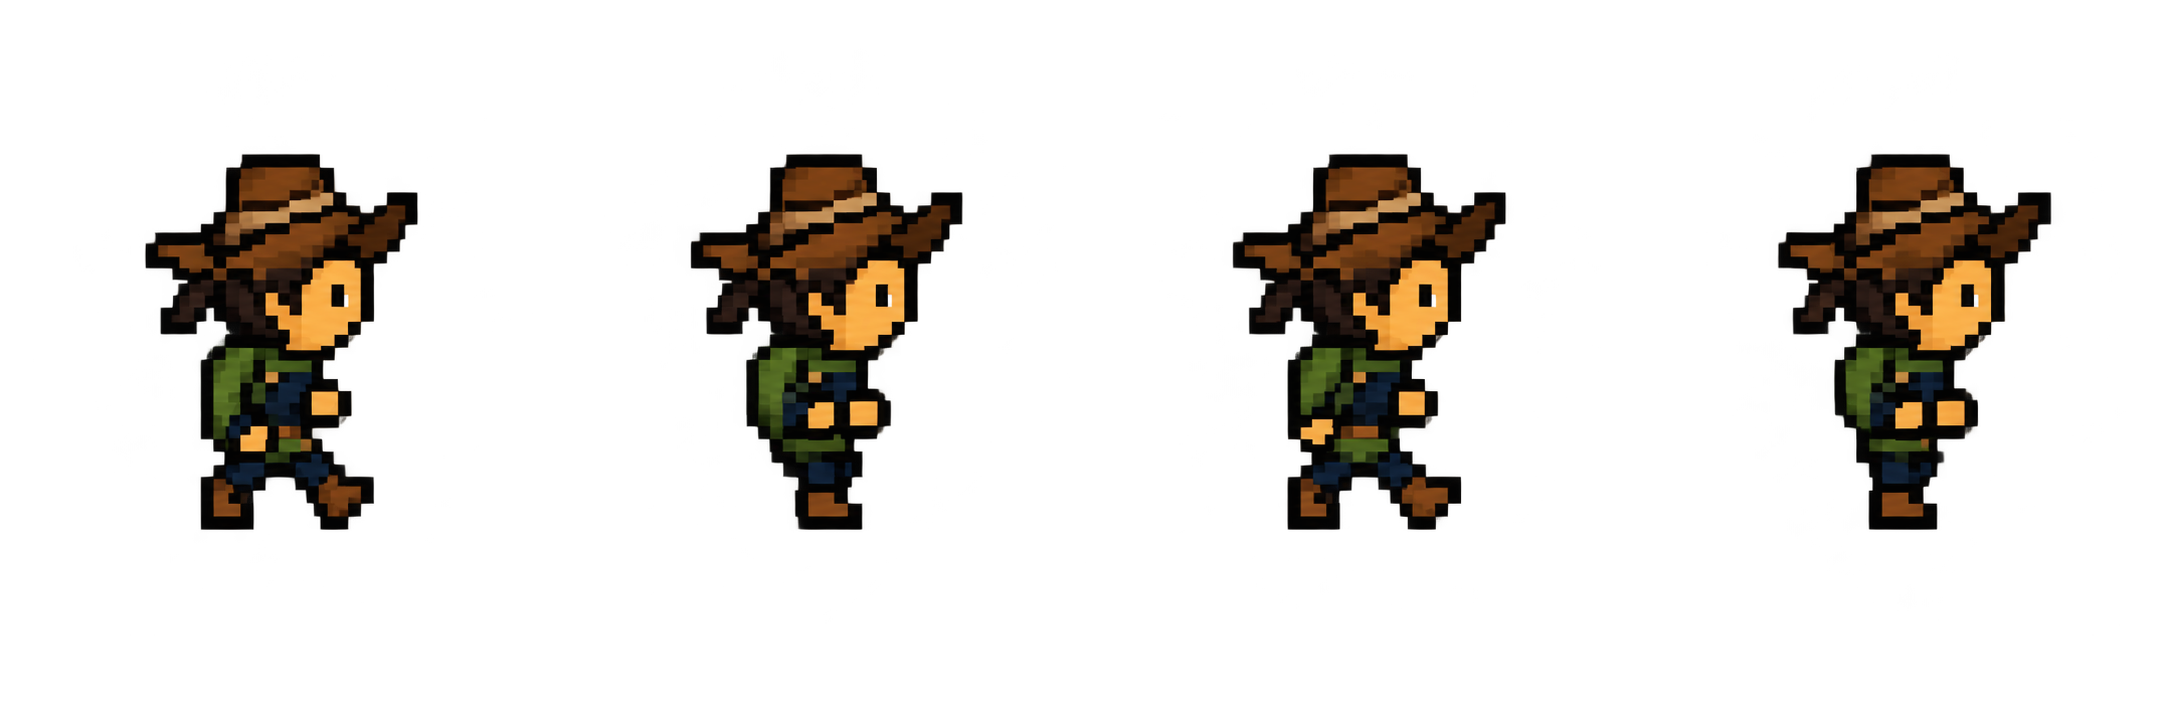
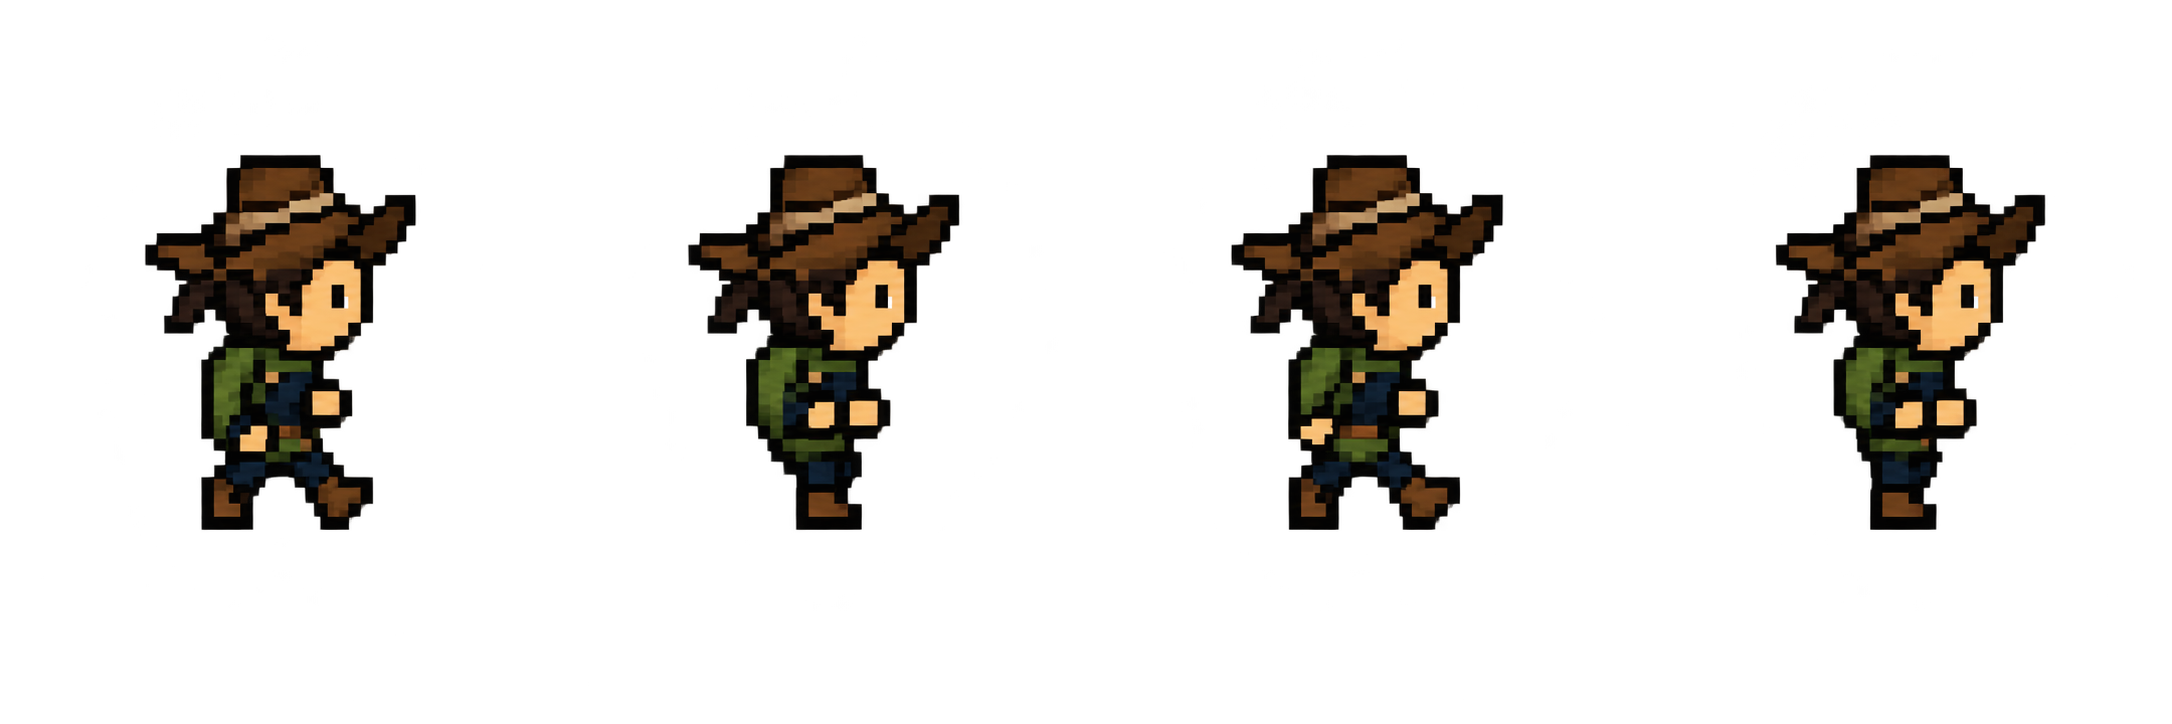
ajustes no movimento do personagem

diff --git a/jogo/recursos.py b/jogo/recursos.py
@@ -44,12 +44,53 @@ def _carregar_costas():
     return quadro
 
 
+def _carregar_respiracao_direita():
+    # Exportacao do Piskel: 16 quadros em ordem de leitura, numa grade 4x4.
+    folha = pygame.image.load(PASTA_ASSETS + "/New Piskel.png").convert_alpha()
+    largura = folha.get_width() // 4
+    altura = folha.get_height() // 4
+    quadros = []
+    for linha in range(4):
+        for coluna in range(4):
+            pose = folha.subsurface((coluna * largura, linha * altura, largura, altura))
+            # Mantem a celula inteira para preservar o deslocamento da respiracao.
+            quadros.append(pygame.transform.scale(pose, (TAMANHO_CELULA, TAMANHO_CELULA)))
+    return quadros
+
+
+def _aplicar_paleta_piskel(quadros):
+    # Usa apenas cores presentes na referencia, evitando variacoes entre estados.
+    referencia = pygame.image.load(PASTA_ASSETS + "/New Piskel.png").convert_alpha()
+    paleta = set()
+    for y in range(referencia.get_height()):
+        for x in range(referencia.get_width()):
+            cor = referencia.get_at((x, y))
+            if cor.a >= 128:
+                paleta.add((cor.r, cor.g, cor.b))
+    paleta = sorted(paleta)
+    conversoes = {}
+    for quadro in quadros:
+        for y in range(quadro.get_height()):
+            for x in range(quadro.get_width()):
+                cor = quadro.get_at((x, y))
+                if cor.a > 0:
+                    rgb = (cor.r, cor.g, cor.b)
+                    if rgb not in conversoes:
+                        conversoes[rgb] = min(
+                            paleta, key=lambda p: (p[0] - rgb[0]) ** 2
+                            + (p[1] - rgb[1]) ** 2 + (p[2] - rgb[2]) ** 2
+                        )
+                    quadro.set_at((x, y), (*conversoes[rgb], cor.a))
+    return quadros
+
+
 def carregar_imagens():
     # carrega todas as texturas do jogo uma única vez e guarda em um dicionário.
     return {
+        "respiracao_direita": _carregar_respiracao_direita(),
         "caminhada_frente": _carregar_caminhada("movimento_jogador/personagem_andando_frente.png"),
-        "caminhada_direita": _carregar_caminhada("movimento_jogador/personagem_andando_direita.png"),
-        "caminhada_esquerda": _carregar_caminhada("movimento_jogador/personagem_andando_esquerda.png"),
+        "caminhada_direita": _aplicar_paleta_piskel(_carregar_caminhada("movimento_jogador/personagem_andando_direita.png")),
+        "caminhada_esquerda": _aplicar_paleta_piskel(_carregar_caminhada("movimento_jogador/personagem_andando_esquerda.png")),
         "grama": _carregar("grama.png"),
         "muro": _carregar("muro.png"),
         "salao_chao": _carregar("salao_chao.png"),

diff --git a/jogo/jogador.py b/jogo/jogador.py
@@ -6,7 +6,7 @@ from jogo.mapa import identificando_buraco, pode_andar
 
 class Jogador:
     # representa o personagem controlado pelo jogador, sua posição, vida e cronômetros.
-    def __init__(self, grade_x, grade_y, imagem, imagem_costas, caminhada_direita, caminhada_esquerda, caminhada_frente):
+    def __init__(self, grade_x, grade_y, imagem, imagem_costas, caminhada_direita, caminhada_esquerda, caminhada_frente, respiracao_direita):
         # posição lógica na matriz (0 a 16).
         self.grade_x = grade_x
         self.grade_y = grade_y
@@ -16,6 +16,9 @@ class Jogador:
         self.caminhada_direita = caminhada_direita
         self.caminhada_esquerda = caminhada_esquerda
         self.tempo_animacao = 0.0
+        self.respiracao_direita = respiracao_direita
+        self.tempo_respiracao = 0.0
+        self.direcao_olhar = (1, 0)
         # posição visual em pixels na tela (permite deslize suave entre células).
         self.x = float(grade_x * TAMANHO_CELULA)
         self.y = float(grade_y * TAMANHO_CELULA)
@@ -103,6 +106,11 @@ class Jogador:
                         self.y += diferenca_y * proporcao
                         restante = 0
 
+        if self.em_movimento:
+            self.tempo_respiracao = 0.0
+        else:
+            self.tempo_respiracao += dt
+
         # desconta o tempo dos cronômetros de invulnerabilidade e paralisação.
         self.tempo_invulneravel -= dt / 1.5
         self.tempo_parado -= dt
@@ -115,6 +123,9 @@ class Jogador:
         # desenha o personagem na tela, alternando a visibilidade para piscar quando invulnerável.
         if self.tempo_invulneravel <= 0 or int(self.tempo_invulneravel * 12) % 2 == 0:
             imagem = self.imagem
+            if not self.em_movimento and self.direcao_olhar == (1, 0):
+                quadros = self.respiracao_direita
+                imagem = quadros[int(self.tempo_respiracao * 8) % len(quadros)]
             if self.em_movimento and self.destino_y < self.grade_y:
                 quadros = self.caminhada_frente
                 imagem = quadros[int(self.tempo_animacao * 10) % len(quadros)]
@@ -149,6 +160,7 @@ class Jogador:
         if self.tempo_parado > 0:
             return False
 
+        self.direcao_olhar = (dx, dy)
         self.destino_x = proximo_x
         self.destino_y = proximo_y
         self.em_movimento = True

diff --git a/jogo/aplicacao.py b/jogo/aplicacao.py
@@ -27,7 +27,7 @@ class Aplicacao:
         self.jogador = Jogador(
             centro, TAMANHO_MAPA - 3, self.imagens["personagem"], self.imagens["personagem_costas"],
             self.imagens["caminhada_direita"], self.imagens["caminhada_esquerda"],
-            self.imagens["caminhada_frente"]
+            self.imagens["caminhada_frente"], self.imagens["respiracao_direita"]
         )
         self.rodando = True
 
